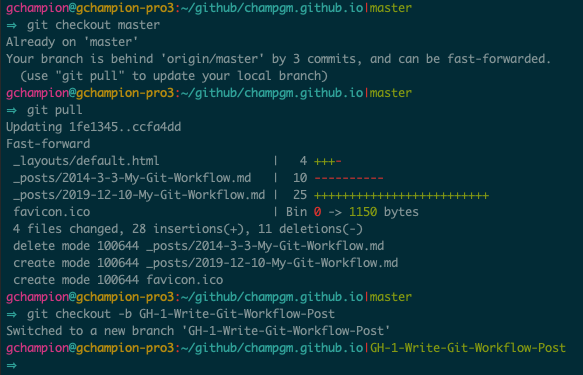
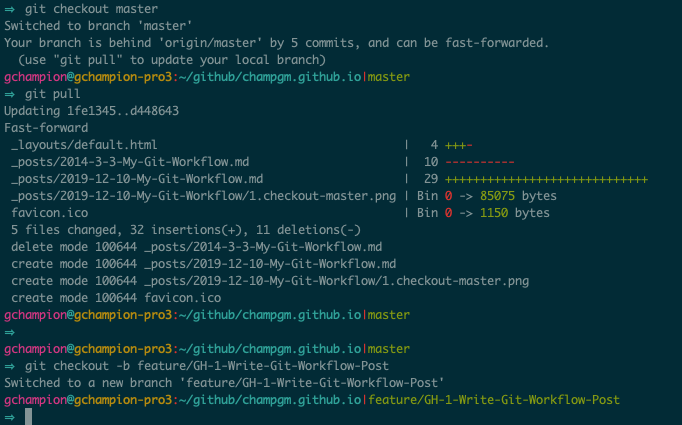
GH-1: Detail branch naming strategy

Changed region(s): [[0.0, 0.0, 0.988, 1.0]]

diff --git a/_posts/2019-12-10-My-Git-Workflow.md b/_posts/2019-12-10-My-Git-Workflow.md
@@ -21,8 +21,16 @@ A quick summary of the happy path work flow should look something like this:
 
 #### Pull Changes
 Check out your base branch, pull any recent changes, and start a new branch for your work.
-
 ![Pull Changes](2019-12-10-My-Git-Workflow/1.checkout-master.png)
+It's important to note here that I've prefixed my branch name. `feature` is a prefix from [git flow](https://nvie.com/posts/a-successful-git-branching-model/) that signifies from where I'm branching and what I intend to do in this branch. `GH-1` signifies that this branch is related to GitHub issue #1. If you were using something like JIRA, it would read `JIRAQUEUE-1` instead. This provides traceability back to the requirements of the feature this branch will implement. Ideally, all branches should be prefixed with at least an issue number, especially in a professional setting.
+
+#### Add your feature
+Write your tests, fix your bugs, etc. At this point, feel free to make as many commits as you'd like. Make them and push them often, especially before you leave work for the day. You never know what might happen to your local copy of the work you've done, or the computer on which it resides.
+
+Once you think you're ready for a code review, take a look at your commit history with something like, "git log --pretty=oneline"
+
+
+
 
 
 
